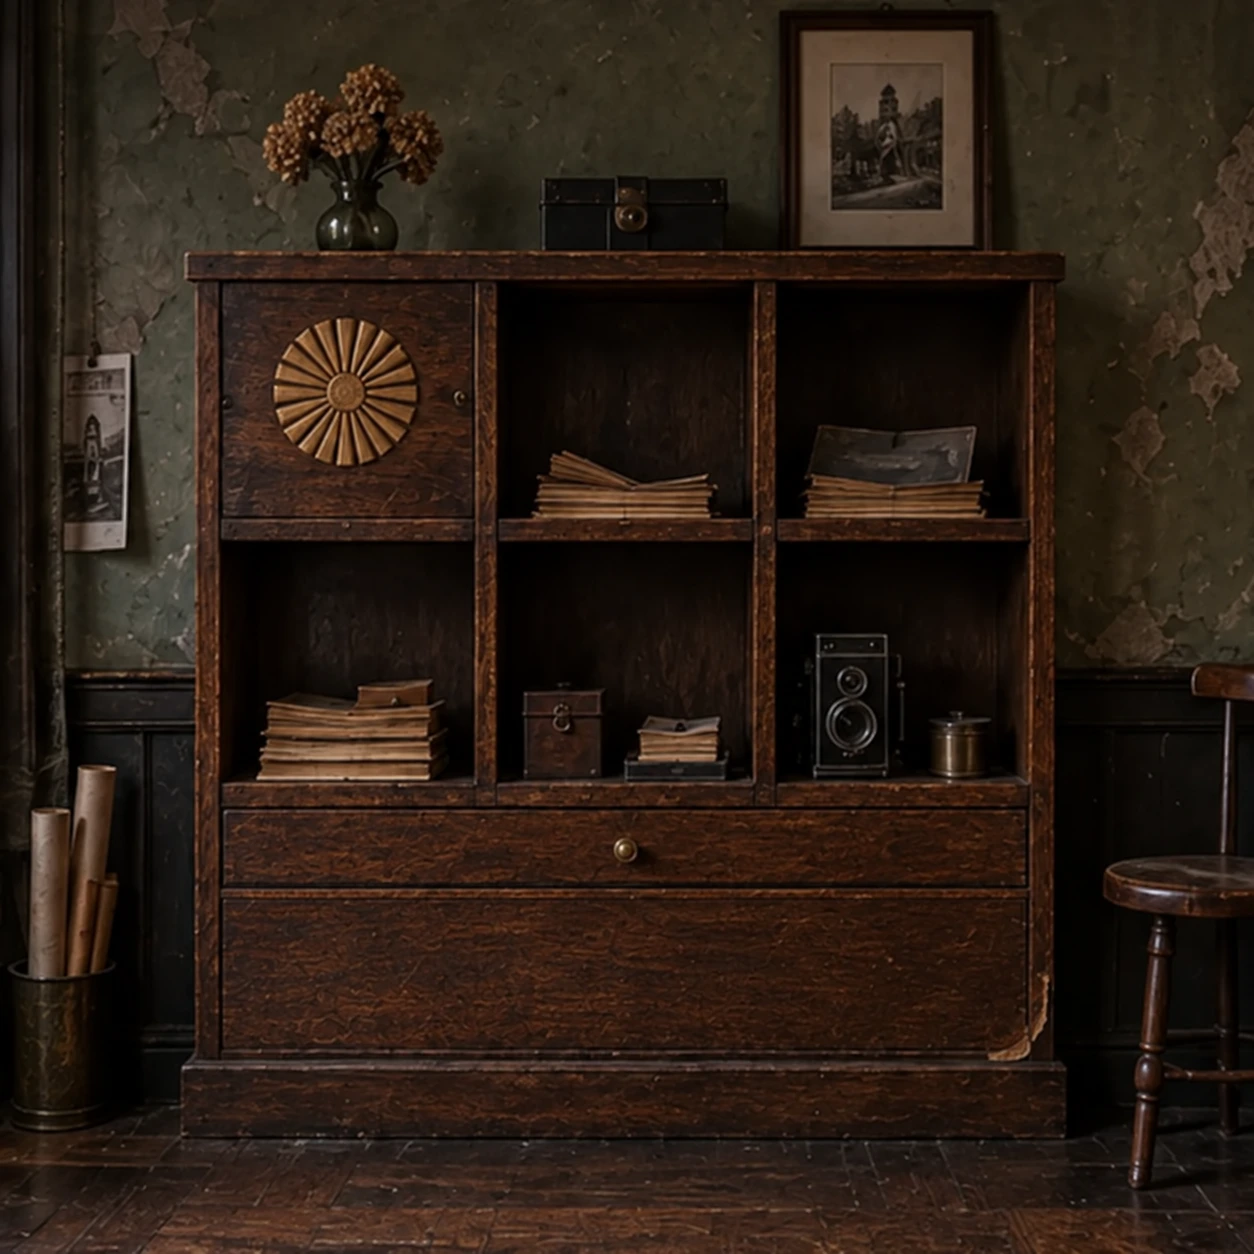
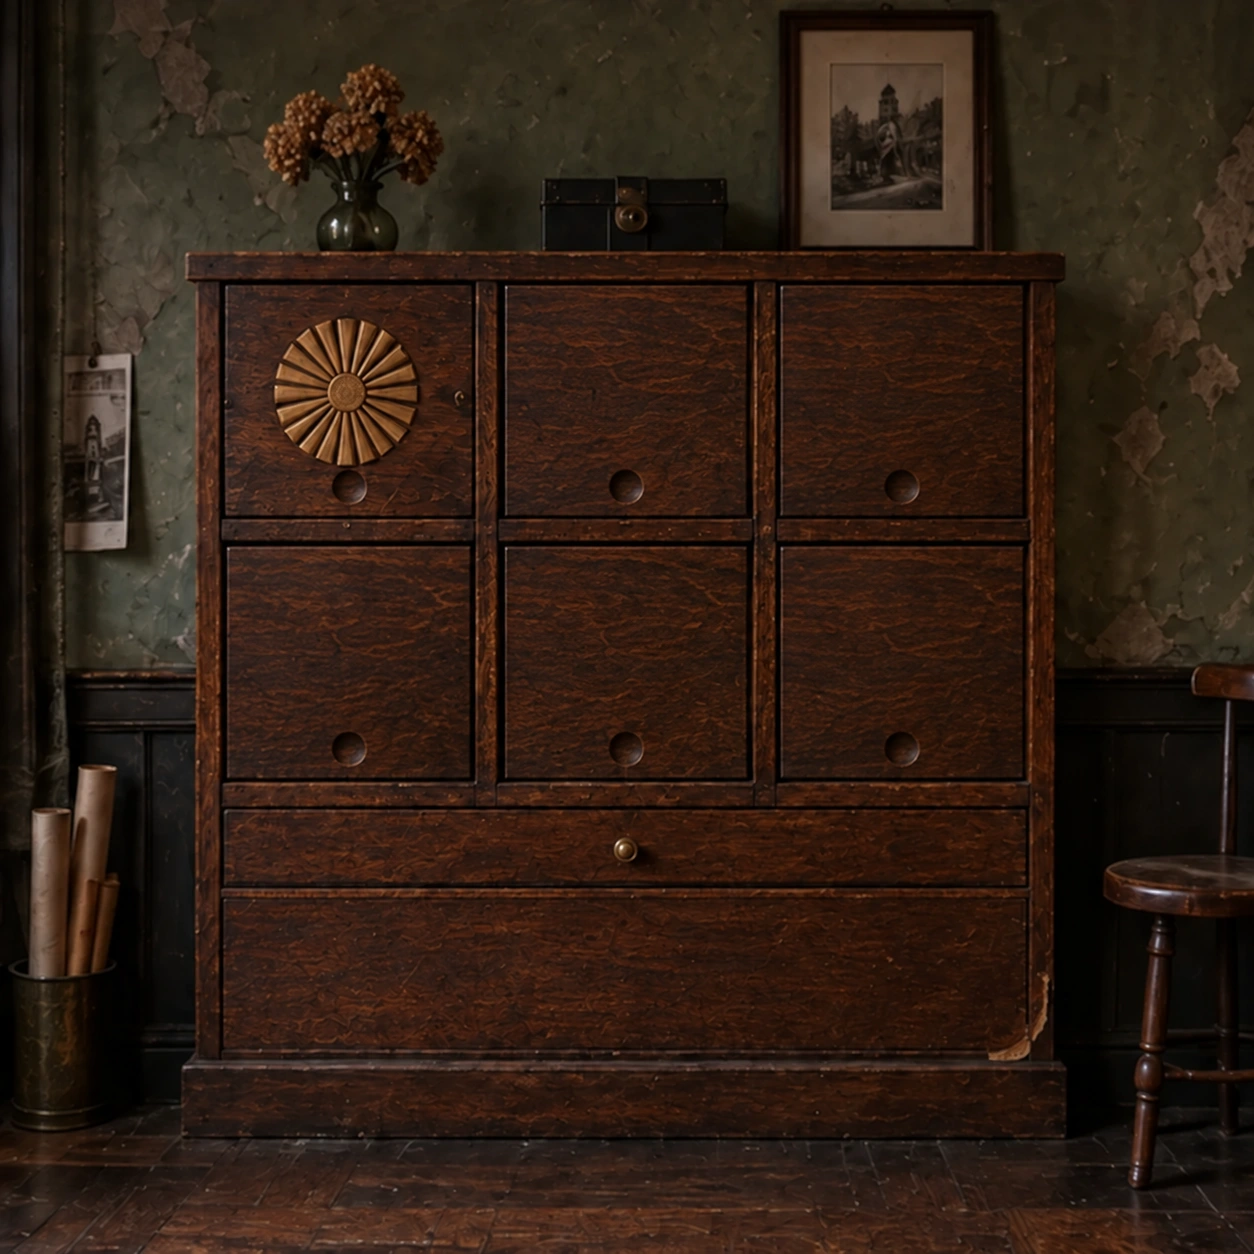
fix: 保管棚の図と目印を一致させ押し板の沈み込みを可視化

diff --git a/src/data.ts b/src/data.ts
@@ -154,9 +154,9 @@ export const CLUES: Record<
     room: 1,
   },
   mirror: {
-    name: "裏から見た保管棚",
+    name: "保管棚の押し板図",
     image: photo("clues-a", 3),
-    text: "太陽印は、保管棚と左右が逆だ。",
+    text: "白い板を押す図。放射状の飾りは、棚と反対側にある。",
     room: 2,
   },
   shadows: {
@@ -304,14 +304,14 @@ export const PUZZLES: Record<string, Puzzle> = Object.fromEntries(
         answer: [2, 3, 4],
         initial: [],
         labels: ["左上", "中央上", "右上", "左下", "中央下", "右下"],
-        instruction: "写真で空いていた三つの仕切りを押す。",
+        instruction: "図の白い三枚に対応する押し板を沈める。",
         clues: ["mirror"],
         rewards: ["crank", "plate"],
         effect: "三つの留め金が外れた。",
-        detail: "写真の裏面から位置を戻して考える。",
+        detail: "図と棚の飾りを照合し、白い押し板の位置を読み直す。",
         hint: [
-          "保管棚の左に掛かる図を見てください。図と実物で、太陽の印が左右どちらにあるかを比べます。",
-          "図は左右が逆です。図の白い三つの区画を、左右だけ反転させて実物の棚で選びます。上下は変えません。",
+          "保管棚の左に掛かる図を見てください。下の小さな絵は、白い板を指で押し込む操作を表しています。",
+          "放射状の飾りは図の右上、実物の左上にあります。図は左右が逆です。白い三枚を左右反転した位置で押してください。押した板は沈み、もう一度押すと戻ります。",
           "右上・左下・中央下。順番は問わない。",
         ],
       },

diff --git a/src/sceneGeometry.ts b/src/sceneGeometry.ts
@@ -61,12 +61,12 @@ export const MECHANISMS: Record<string, Mechanism> = {
     bounds: [17, 23, 66, 49],
     focus: [9, 17, 78, 78],
     controls: [
-      [18, 24, 19, 17],
-      [40, 24, 19, 17],
-      [62, 24, 19, 17],
-      [18, 44, 19, 17],
-      [40, 44, 19, 17],
-      [62, 44, 19, 17],
+      [17.8, 22.8, 19.7, 18.4],
+      [40, 22.8, 19.7, 18.4],
+      [62.1, 22.8, 19.7, 18.4],
+      [17.8, 43.6, 19.7, 18.5],
+      [40, 43.6, 19.7, 18.5],
+      [62.1, 43.6, 19.7, 18.5],
     ],
     open: [46, 65, 8, 6],
     state: "retouch-rack",

diff --git a/src/Scene.tsx b/src/Scene.tsx
@@ -621,10 +621,10 @@ export function Scene({
                 ))}
               {id === "rack" &&
                 v.map((i) => (
-                  <div
+                  <Patch
                     key={i}
-                    className="shelf-pressed"
-                    style={box(m.controls[i])}
+                    id="retouch-rack-pressed"
+                    area={m.controls[i]}
                   />
                 ))}
               {zoom &&

diff --git a/src/App.tsx b/src/App.tsx
@@ -494,7 +494,9 @@ export default function App() {
               />
             ) : panel?.type === "clue" &&
               (!panel.inWorld ||
-                ["shadows", "history", "layout"].includes(panel.id)) ? (
+                ["shadows", "history", "layout", "mirror"].includes(
+                  panel.id,
+                )) ? (
               <SceneDocument id={panel.id} />
             ) : (
               <Scene

diff --git a/src/style.css b/src/style.css
@@ -1008,12 +1008,6 @@ button,
 .state-patch {
   pointer-events: none;
 }
-.shelf-pressed {
-  position: absolute;
-  background: #0005;
-  box-shadow: inset 2px 3px 2px #0009;
-  pointer-events: none;
-}
 .back-button {
   position: absolute;
   bottom: 0;

diff --git a/docs/walkthrough.md b/docs/walkthrough.md
@@ -2,24 +2,24 @@
 
 **全解法と結末を含む。通常プレイ前には読まないこと。**
 
-| 対象         | 写真内の操作                                                | 結果                                               |
-| ------------ | ----------------------------------------------------------- | -------------------------------------------------- |
-| 受付の側板   | 三つの押さえをそれぞれ回す。順不同。板を引く                | 廊下の鍵                                           |
-| 廊下の扉     | 鍵を選び扉へ使う。扉を開き、開口部を押して進む              | 展示廊下                                           |
-| 四枚の写真   | 無傷→裂け目と立つ花瓶→裂け目と割れた花瓶→修理。二枚ずつ交換 | 引き出しに暗室の鍵と電球                           |
-| 保管棚       | 左の紙の太陽印を基準に左右を戻す。右上・左下・中央下        | ハンドルと乾板                                     |
-| 作業灯       | 電球を入れ、腕を二段下げる                                  | 紙に残った押し跡。右の引き出しの鋏は独立して取れる |
-| 壁の搬送口   | ハンドルを穴に使い、左の送りを二段、右を一段動かす          | 蓋の中のレンズ                                     |
-| 台紙         | 鋏を使い、上中央・中央右・左下の窓を開く                    | 三枚のガラス                                       |
-| 現像         | 乾板を入れ、黒→白→灰→水                                     | 乾燥用の引き出しに写真                             |
-| 撮影機       | レンズを入れる。台車は右、焦点は中央、レンズは高い位置      | 下の収納にレリーズ                                 |
-| 照明         | レリーズを接続。五枚の影に対し、右→右→上→左→左              | 小さな収納に幕のハンドル                           |
-| 景色         | 写真を掛け、扉の左半分→右半分→窓の左半分→右半分             | 小箱に裏室の乾板                                   |
-| ガラス       | 三枚を置く。初期から一枚目を二回、三枚目を一回回す          | 弧と枝の輪郭がつながる                             |
-| 背景幕       | 景色とガラスを揃え、右の軸にハンドルを入れて回す            | 幕が上がり裏室へ。図面上の答え合わせはない         |
-| 裏室の送り口 | 同じ型を左右逆に組んだ機構。ハンドルを使い、右二段→左一段   | 印画紙                                             |
-| 焼付け       | 乾板と紙を枠へ入れ、光→黒→白→水                             | 最後の写真                                         |
-| 搬出口       | 最後の写真の裏面を読む。窓が逆側なので、右→左→右→中央       | 扉を開け、外へ進む                                 |
+| 対象         | 写真内の操作                                                                   | 結果                                               |
+| ------------ | ------------------------------------------------------------------------------ | -------------------------------------------------- |
+| 受付の側板   | 三つの押さえをそれぞれ回す。順不同。板を引く                                   | 廊下の鍵                                           |
+| 廊下の扉     | 鍵を選び扉へ使う。扉を開き、開口部を押して進む                                 | 展示廊下                                           |
+| 四枚の写真   | 無傷→裂け目と立つ花瓶→裂け目と割れた花瓶→修理。二枚ずつ交換                    | 引き出しに暗室の鍵と電球                           |
+| 保管棚       | 図の区画内の放射状の飾りを基準に左右を戻し、右上・左下・中央下の押し板を沈める | ハンドルと乾板                                     |
+| 作業灯       | 電球を入れ、腕を二段下げる                                                     | 紙に残った押し跡。右の引き出しの鋏は独立して取れる |
+| 壁の搬送口   | ハンドルを穴に使い、左の送りを二段、右を一段動かす                             | 蓋の中のレンズ                                     |
+| 台紙         | 鋏を使い、上中央・中央右・左下の窓を開く                                       | 三枚のガラス                                       |
+| 現像         | 乾板を入れ、黒→白→灰→水                                                        | 乾燥用の引き出しに写真                             |
+| 撮影機       | レンズを入れる。台車は右、焦点は中央、レンズは高い位置                         | 下の収納にレリーズ                                 |
+| 照明         | レリーズを接続。五枚の影に対し、右→右→上→左→左                                 | 小さな収納に幕のハンドル                           |
+| 景色         | 写真を掛け、扉の左半分→右半分→窓の左半分→右半分                                | 小箱に裏室の乾板                                   |
+| ガラス       | 三枚を置く。初期から一枚目を二回、三枚目を一回回す                             | 弧と枝の輪郭がつながる                             |
+| 背景幕       | 景色とガラスを揃え、右の軸にハンドルを入れて回す                               | 幕が上がり裏室へ。図面上の答え合わせはない         |
+| 裏室の送り口 | 同じ型を左右逆に組んだ機構。ハンドルを使い、右二段→左一段                      | 印画紙                                             |
+| 焼付け       | 乾板と紙を枠へ入れ、光→黒→白→水                                                | 最後の写真                                         |
+| 搬出口       | 最後の写真の裏面を読む。窓が逆側なので、右→左→右→中央                          | 扉を開け、外へ進む                                 |
 
 資料は写真内で見つける。保管棚の脇の紙、作業灯の下の台紙、壁の試し撮りや配置図などを調べる。現像処理は館内の見本をルールとし、専門知識を要求しない。
 

diff --git a/docs/assets/2026-09-19-framed-items.md b/docs/assets/2026-09-19-framed-items.md
@@ -43,3 +43,20 @@ ONE square highest-resolution photographic inventory atlas laid out in exact 2x2
 組み込みimage_genで生成。採用先: public/images/rooms/gallery/states/retouch-entry.webp。展示廊下の既存写真を編集対象、修整室の北向き写真を室内の参照として使用。生成画像の右側だけを同じ座標へ適用し、左の仕掛けを維持。
 
 Precise photorealistic room edit for escape-game navigation. FIRST image is edit target. Preserve entire left 75% exactly: four empty photograph mats, drawer, two small empty frames, wall and floor. Change only RIGHT quarter: the entrance to the retouch workroom must be unmistakably a wide OPEN WALKABLE doorway, framed completely within image at x76%-99%, top near0%, threshold at90%. Remove the obstructing dark half-open door leaf by swinging it fully inward out of the opening. The opening shows an inviting but eerie warmly lit retouch workshop with recognizable green articulated desk lamp, wooden workbench with drawers, and shelving, based on SECOND image as interior reference. Make visible depth and floor continuing through doorway, not a flat reflected picture or cabinet. A warm restrained spill of light crosses the threshold onto gallery floor, doorway jambs readable. No sign, no lettering, no UI, no arrow, no person. Preserve worn dark wood, muted green plaster, photographic lighting and exact camera angle of gallery. Do not turn it into a brightly lit modern room. Square full-room photograph, high resolution, maintain all puzzle objects and positions on left.
+
+## Retouch cabinet push panels
+
+組み込みimage_genを使用。採用先:
+
+- public/images/rooms/retouch/views/east.webp（旧版を置換）
+- public/images/rooms/retouch/states/retouch-rack-pressed.webp
+- public/images/clues/a/mirrored-shelf.webp（旧版を置換）
+
+Base prompt:
+Precise photorealistic escape game cabinet edit. Preserve exact entire square scene, cabinet outer framing, position, all SIX compartment borders in 3 columns x2 rows, drawer closed below, walls, objects outside cabinet. Convert all six compartments into six matching square solid dark oak PUSH PANELS, flush fronts, NOT open shelves: remove papers, cameras and containers inside five open compartments and fill with wooden push panels matching the upper-left existing wood panel. Each panel has a fine dark gap around all four edges and a small shallow thumb-sized circular depression centered low on the panel, so it clearly can be pressed inward, no knobs/hinges. Upper-left panel retains EXACT geometric circular radial carved wooden rosette from reference (a disk of many straight fan-shaped rays around small round center, no face), centered within panel. Other five panels plain wood and matching small fingertip depressions. Consistent rich worn real wood grain and subtle warm side lighting. All six panels currently UNPRESSED flush at same depth. No words, numbers, diagrams, arrows, UI or extra decorations. Do not move the cabinet or lower drawer or change their geometry. High detail.
+
+Pressed state prompt:
+Precise alternate STATE of exact reference scene. Preserve camera, ALL woodgrain patterns, furniture, drawer, room, decorations exactly. The SIX square wooden push panels in 3 columns x2 rows are now all pressed inward into their individual compartments by a clearly visible depth of 3cm. Keep each panel's same design, rosette upper-left, round finger depression and exact wood grain; only physically recess them. Create visible wooden inner top ledge and side reveal strips around each sunken panel, stronger contact shadows at TOP and LEFT edges, panel face slightly darker because recessed. Each depressed face visibly smaller within its unchanged outer rectangular frame. This should be unmistakably different from flush panels, even at phone size, NOT just a brightness adjustment. All six recessed uniformly. All outside borders, inter-panel pillars, cabinet bottom DRAWER and room unchanged. One full square high resolution photograph, no labels or UI. Do not open any doors or drawers. No hand.
+
+Diagram prompt:
+Create a high resolution photorealistic antique paper instruction sketch for the cabinet in reference, viewed exactly front-on. One aged cream sheet, crisp fine graphite lines, no words/numbers. Main drawing shows SIX square wooden push panels arranged exactly 3 columns and 2 rows in a rectangular cabinet frame. This drawing is a MIRRORED view of reference, so the EXACT same geometric carved circular fan-ray rosette is INSIDE the UPPER RIGHT panel centered there. Rosette has many straight wedge/fan rays, small plain circular center, NO face and NO wavy sun flames. There is NO symbol outside the grid. Pattern: TOP LEFT unshaded white; TOP CENTER dark crosshatched; TOP RIGHT dark crosshatched but rosette clearly visible inside it. BOTTOM LEFT dark crosshatched; BOTTOM CENTER white; BOTTOM RIGHT white. White panels are drawn slightly inset with clear inner bevel, dark panels remain flush. At bottom of page add one small separate mechanical pictogram of a fingertip pressing an unshaded square wooden panel inward, with a short arrow into the recess; it explains that WHITE PANELS ARE TO BE PUSHED. Keep pictogram separate below main six-panel grid, no extra grids. Each panel has a small round finger indentation near its lower edge matching physical push panels. Simple precise readable diagram, worn paper fibers and corners, no decorative objects. The sole orientation rosette must be fully inside top right cell.

diff --git a/docs/verification.md b/docs/verification.md
@@ -62,3 +62,11 @@
 390×900 / 1440×900で入口と室内を目視確認。写真内の入口を座標クリックし、修整室へ一度で移動すること、戻れること、暗室の施錠が迂回されないことを確認。入口と回転矢印の矩形に重なりなし。29テスト・本番ビルド通過、採用画像98点。
 
 今回の点検ではUI Evolveの「操作と結果を見た目から読み取れるか」「対象物と操作範囲の照合」を適用。新しい一般則を追加する差分はなく、既存知見の重複更新は行っていない。
+
+## 保管棚の図と押し板の対応
+
+開放棚の区画を押しても見た目がほぼ変わらなかったため、六区画を同じ形の木製押し板へ変更。押下状態は色を暗くする矩形ではなく、奥へ沈み、上辺・側辺に段差と影のある写真を使用する。六枚それぞれで押下と解除が見える。
+
+図は三列二段を保持し、実物と同じ放射状の飾りを右上の区画内へ配置。実物では左上にあるため、左右の対応を読み取れる。図の下に白い押し板を指で押す操作図を追加。旧来の太陽・顔・区画外の印は除去。ヒント、説明、攻略記録も更新した。
+
+390px / 1440px幅のChromeで、図の拡大、六枚すべての押下・解除、正解の三枚が沈んだ状態、引き出しの開放と二つの取得物を確認。既存の選択値と正解は維持しており、保存データをリセットしない。今回のUI Evolve点検は既存の「図と実物の同一性」「途中状態の可視性」を適用したもので、重複する一般知見の追加は不要と判断。
